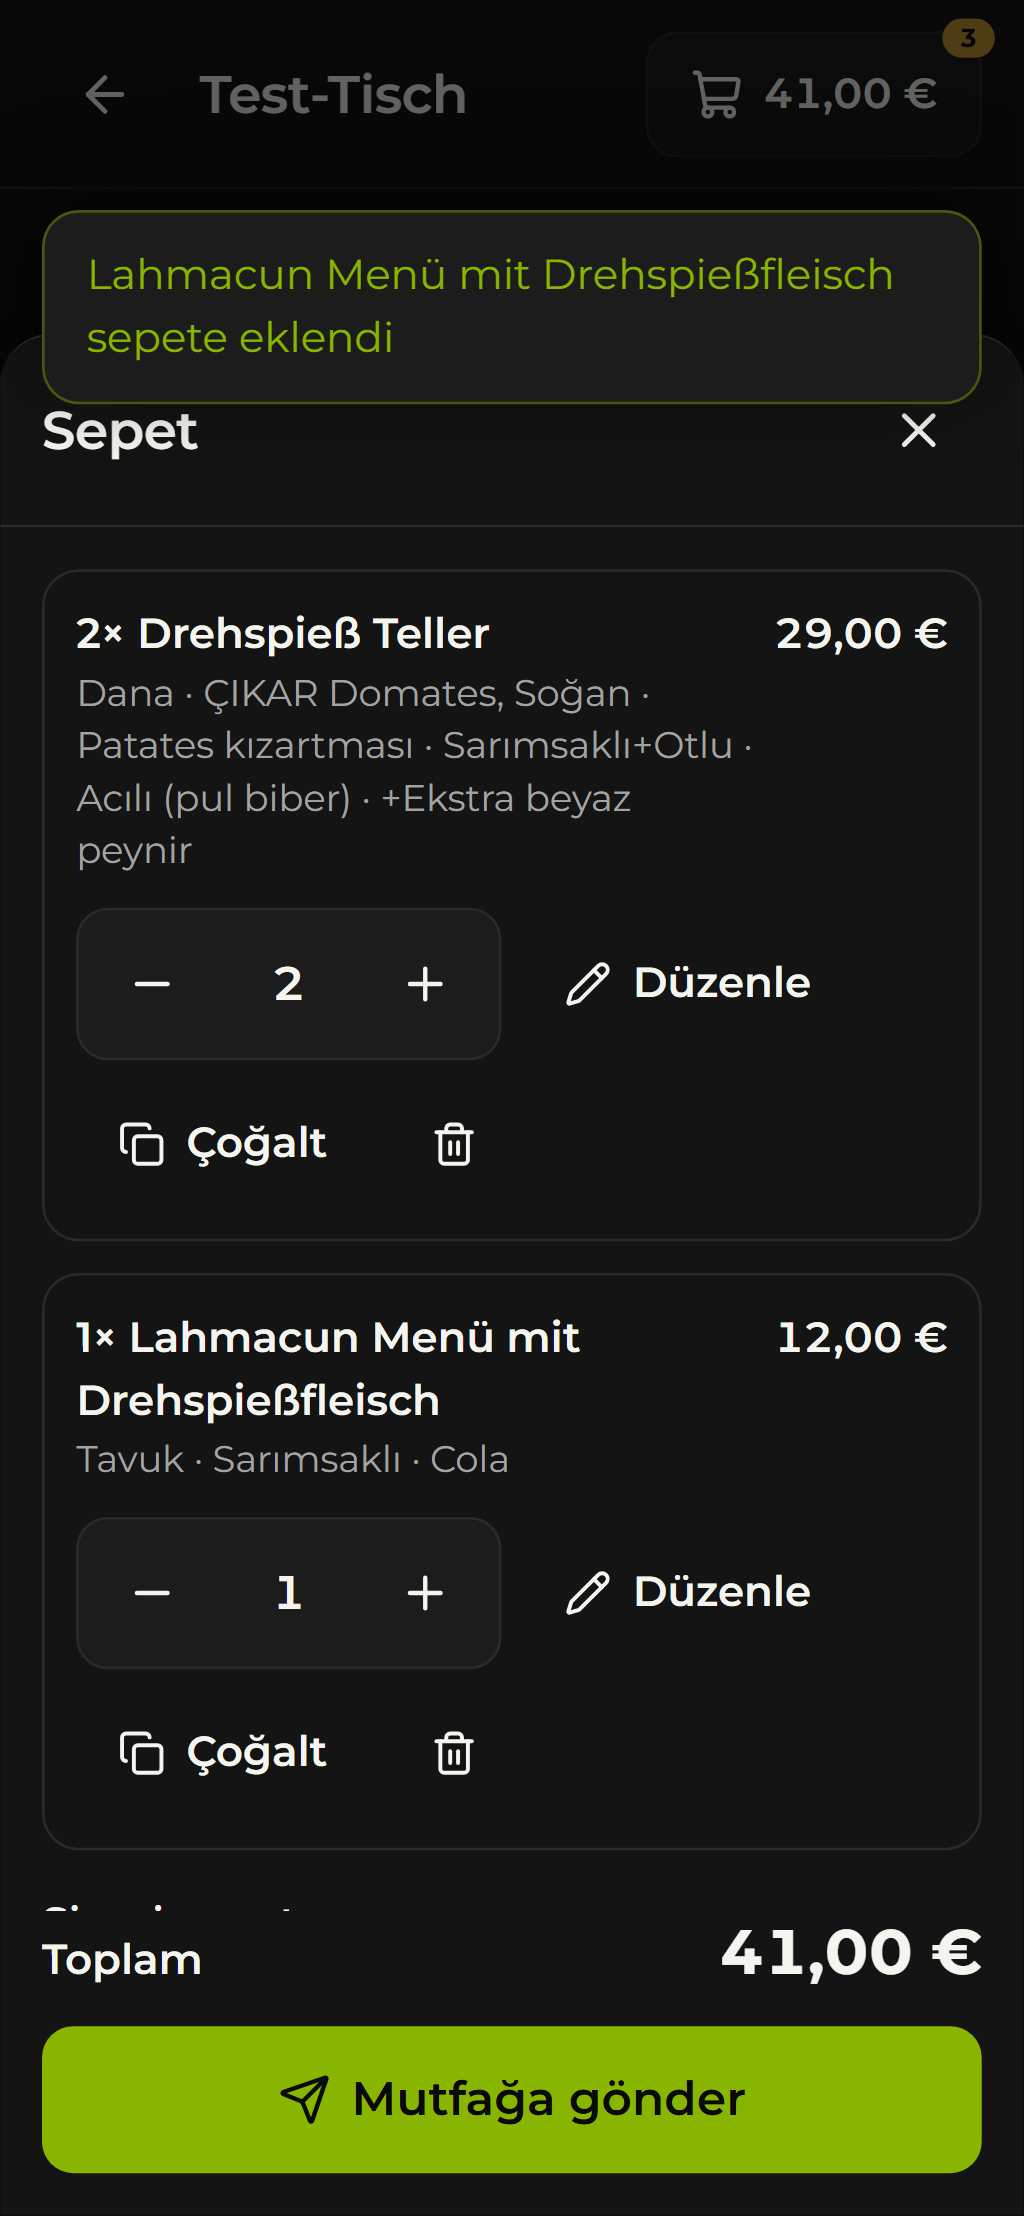
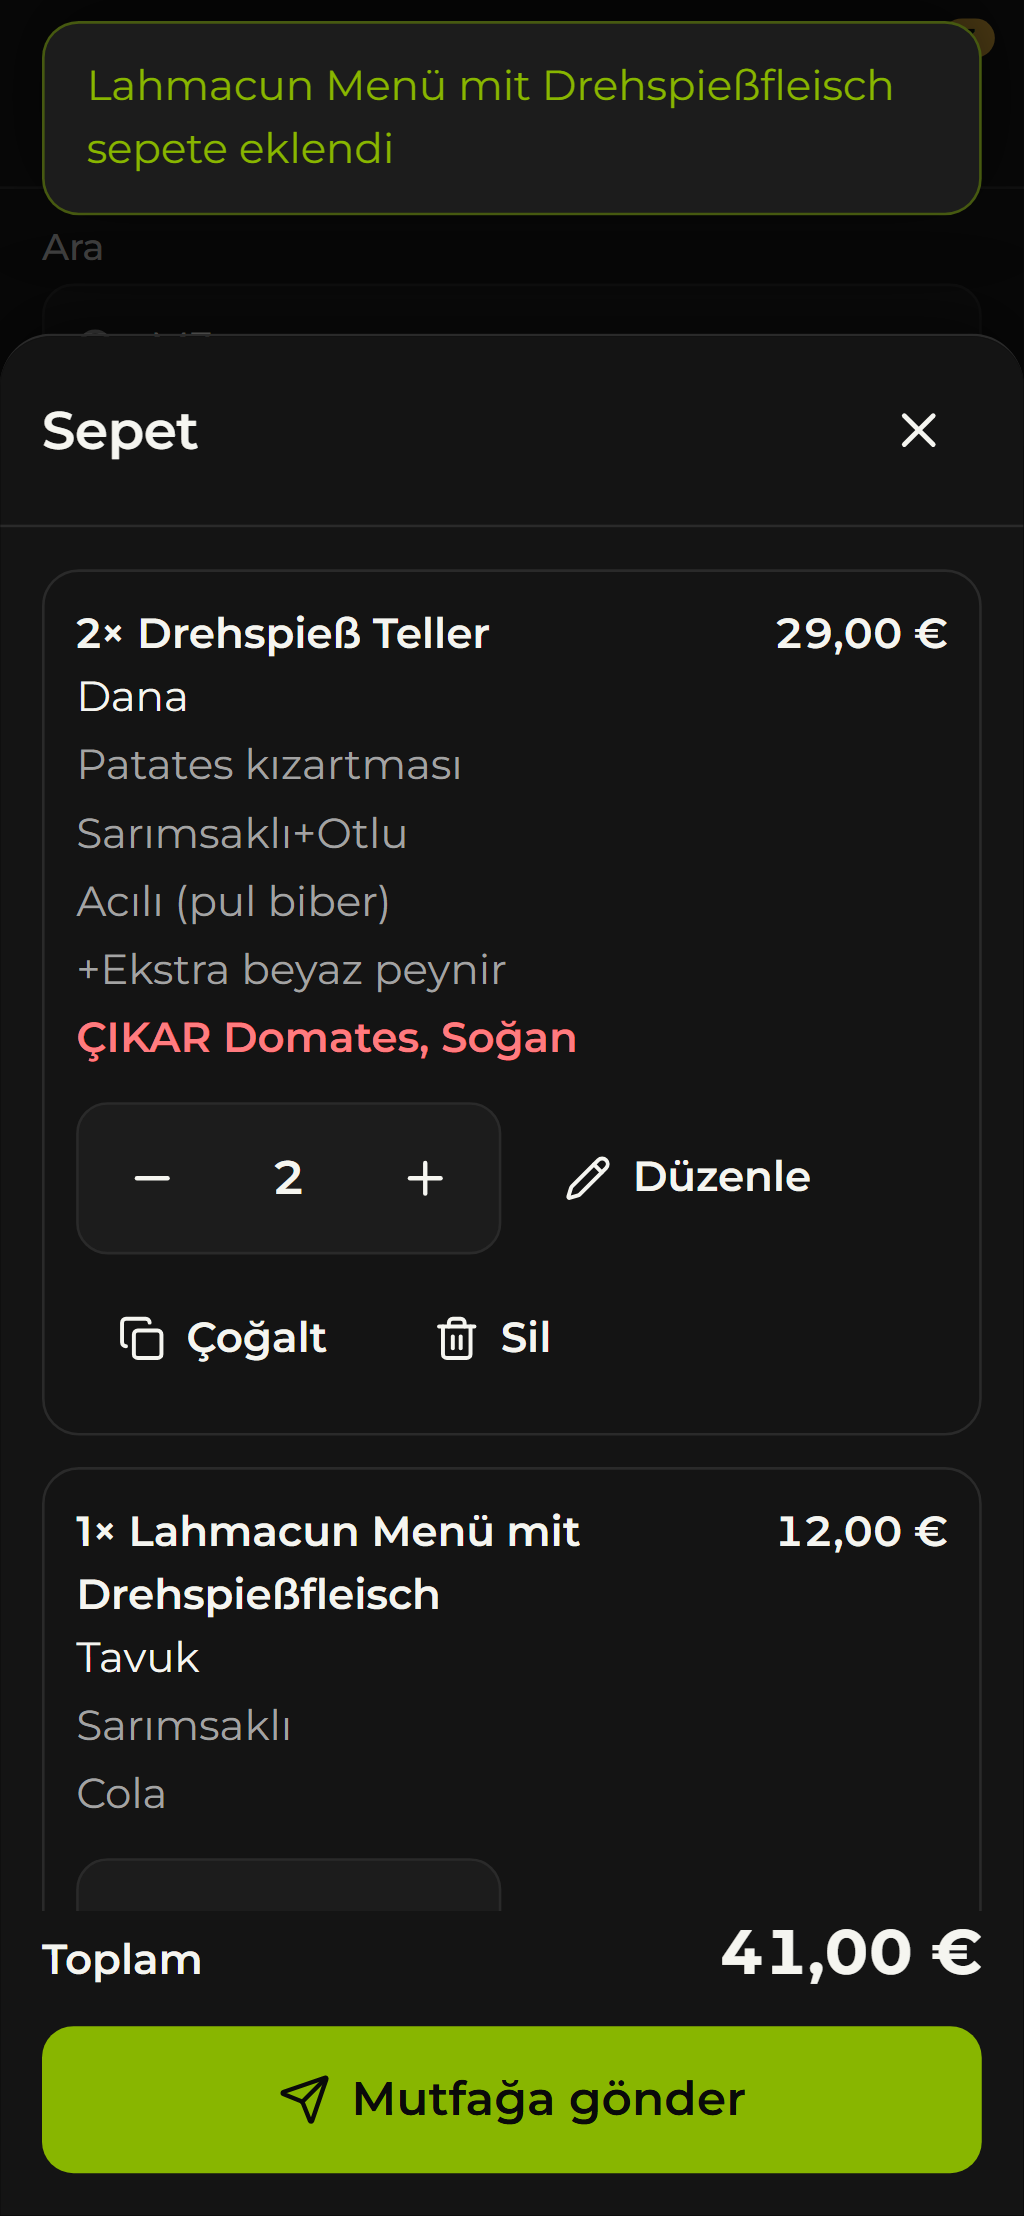
test(web): M3/M4 tasarım kapısı 2. tur — düzeltme sonrası görüntüler ve axe taraması
Kapı `6a63121` üzerinde yeniden koşuldu. M3'te 13 ekranın 13'ü axe temiz (1. turdaki
15 + 2 + 1 `color-contrast` düğümü ve `aria-prohibited-attr` sıfırlandı); Kritik ve
Yüksek bulguların tamamı görüntüyle doğrulandı. M4'te İPTAL rozeti ihlali kapandı ama
yeni kart zeminleri ("late"/"warn") tint tabanlı "Kuyrukta" rozetini 4,23–4,26:1'e
düşürdü — kapı M4 için ŞARTLI.

Araca yalnız ölçüm eklendi (ürün satırı ve KDS kartı yüksekliği, ekrana sığan öğe
sayısı, toast ↔ panel boşluğu, kart tonu dağılımı): düzeltmelerin yan etkisi izlenim
yerine sayıyla raporlanıyor. Ürün kodu değiştirilmedi; ajan başlatılmadı, `settings`
okunmadı/yazılmadı, kurulan veri testin sonunda geri alındı.

Bulgular, yeni axe tablosu ve kapı kararı:
`.superpowers/sdd/2026-09-15-ramos-plan-2-giris-ve-garson/design-gate-m3-m4.md`

diff --git a/apps/web/e2e/design-gate.spec.ts b/apps/web/e2e/design-gate.spec.ts
@@ -52,6 +52,33 @@ async function scan(page: Page, screen: string): Promise<void> {
   });
 }
 
+/**
+ * 2. tur — düzeltmelerin yan etkisini ölçer. Eleştiri "daha kalabalık göründü" gibi bir izlenim
+ * değil, sayı olmalı: ürün satırı kaç piksel, ekrana kaç satır sığıyor, KDS kartları hangi tonda.
+ */
+function logMetrics(label: string, data: Record<string, unknown>): void {
+  console.log(`[ölçüm] ${label}: ${JSON.stringify(data)}`);
+}
+
+/**
+ * Bir seçicinin tüm örneklerinin kutu ölçüleri. `page.evaluate` kullanılmaz: e2e tsconfig'i
+ * `lib: ["ES2023"]` ile derleniyor, DOM globalleri yok (`tsconfig.node.json`).
+ */
+async function boxes(page: Page, selector: string): Promise<{ top: number; bottom: number; height: number }[]> {
+  const items = page.locator(selector);
+  const n = await items.count();
+  const out: { top: number; bottom: number; height: number }[] = [];
+  for (let i = 0; i < n; i++) {
+    const box = await items.nth(i).boundingBox();
+    if (box) out.push({ top: Math.round(box.y), bottom: Math.round(box.y + box.height), height: Math.round(box.height) });
+  }
+  return out;
+}
+
+/** Görünen alana TAM sığan öğe sayısı. */
+const fullyVisible = (list: { bottom: number }[], viewportHeight: number) =>
+  list.filter((b) => b.bottom <= viewportHeight).length;
+
 function writeAxeReport(file: string): void {
   mkdirSync(AXE_DIR, { recursive: true });
   writeFileSync(`${AXE_DIR}/${file}`, JSON.stringify(summaries, null, 2), 'utf8');
@@ -300,11 +327,12 @@ test('M3 kapısı: garson ekranları dolu sahnede — görüntüler + WCAG AA', 
     // 1 — masa ızgarası (dolu, hazır ve boş masalar bir arada)
     await expect(page.locator('button[data-tone="ready"]').first()).toBeVisible();
     await expect(page.locator('button[data-tone="open"]').first()).toBeVisible();
+    // O1: sıra artık durumdan geliyor — hazır → açık → boş.
+    await expect(page.locator('main button[data-tone]').first()).toHaveAttribute('data-tone', 'ready');
     await page.screenshot({ path: SHOT('m3-tables-390.png') });
     await scan(page, 'm3-tables');
 
-    // 2 — "Açık" süzgeci: dolu masalar 12 boş masanın ardında kaldığı için tek çare bu çip
-    //     (devredilen bulgu b'nin gerçek biçimi — sıralama değil, süzgeç).
+    // 2 — "Açık" süzgeci (sıralamanın yanındaki ikinci yol)
     await page.getByRole('button', { name: 'Açık', exact: true }).click();
     await expect(page.locator('button[data-tone="free"]')).toHaveCount(0);
     await page.screenshot({ path: SHOT('m3-tables-filter-390.png') });
@@ -327,6 +355,15 @@ test('M3 kapısı: garson ekranları dolu sahnede — görüntüler + WCAG AA', 
     await expect(page.getByRole('button', { name: /^ekle$|^seç$/i }).first()).toBeVisible();
     await page.screenshot({ path: SHOT('m3-order-menu-390.png') });
     await scan(page, 'm3-order-menu');
+    // R2: `line-clamp-2` + fiyat/düğme alt satırı ürün satırını büyüttü mü, ekrana kaç ürün sığıyor?
+    const rowBoxes = await boxes(page, 'li:has([data-testid="product-row-actions"])');
+    logMetrics('ürün satırı (TR)', {
+      satırSayısı: rowBoxes.length,
+      ilkSatırYüksekliği: rowBoxes[0]?.height ?? null,
+      enYüksekSatır: Math.max(...rowBoxes.map((b) => b.height)),
+      tamGörünenSatır: fullyVisible(rowBoxes, 844),
+      listeninBaşlangıcı: rowBoxes[0]?.top ?? null,
+    });
 
     // 5 — ürün paneli: 08 Drehspieß Teller (4 seçim grubu, 5 malzeme, 2 varyant)
     await page.getByLabel(/ara/i).fill('08');
@@ -370,6 +407,14 @@ test('M3 kapısı: garson ekranları dolu sahnede — görüntüler + WCAG AA', 
     await expect(cart.getByRole('button', { name: /mutfağa gönder/i })).toBeVisible();
     await page.screenshot({ path: SHOT('m3-cart-full-390.png') });
     await scan(page, 'm3-cart');
+    // Devredilen bulgu (a): toast panelin üst kenarına değmemeli.
+    const toastBox = await boxes(page, '[data-testid="toast-bubble"]');
+    const sheetBox = await boxes(page, '[role="dialog"]');
+    logMetrics('toast ↔ panel', {
+      toast: toastBox[0] ? [toastBox[0].top, toastBox[0].bottom] : null,
+      panelÜstü: sheetBox[0]?.top ?? null,
+      boşluk: toastBox[0] && sheetBox[0] ? sheetBox[0].top - toastBox[0].bottom : null,
+    });
 
     // 8 — onay paneli
     await cart.getByRole('button', { name: /mutfağa gönder/i }).click();
@@ -431,11 +476,22 @@ test('M4 kapısı: KDS dolu mutfak ekranı — görüntüler + WCAG AA', async (
     await page.screenshot({ path: SHOT('m4-kds-start-1280.png') });
     await page.getByRole('button', { name: /başlat|starten/i }).click();
 
-    // 1 — dolu mutfak: birden çok kart, geç kalmış kart (kırmızı süre), HAZIR sütunu
+    // 1 — dolu mutfak: birden çok kart, geç kalmış kart (kırmızı kart tonu), HAZIR sütunu
     await expect(page.getByRole('button', { name: /^HAZIR$|^FERTIG$/ }).first()).toBeVisible();
-    await expect(page.locator('[data-tone="danger"]').first()).toBeVisible();
+    await expect(page.locator('section > ul > li[data-tone="late"]')).toHaveCount(1);
+    await expect(page.locator('section > ul > li[data-tone="warn"]')).toHaveCount(1);
     await page.screenshot({ path: SHOT('m4-kds-1280.png') });
     await scan(page, 'm4-kitchen');
+    // R2: renkli kart zeminleri kalabalık ekranda gürültü yapıyor mu — kaç kart renkli?
+    const cardBoxes = await boxes(page, 'section > ul > li[data-tone]');
+    logMetrics('KDS kartları', {
+      aktifKart: cardBoxes.length,
+      ok: await page.locator('section > ul > li[data-tone="ok"]').count(),
+      warn: await page.locator('section > ul > li[data-tone="warn"]').count(),
+      late: await page.locator('section > ul > li[data-tone="late"]').count(),
+      ilkKartYüksekliği: cardBoxes[0]?.height ?? null,
+      tamGörünenKart: fullyVisible(cardBoxes, 800),
+    });
 
     // 2 — tükendi çekmecesi (dolu)
     await page.getByRole('button', { name: /tükendi|ausverkauft/i }).first().click();
